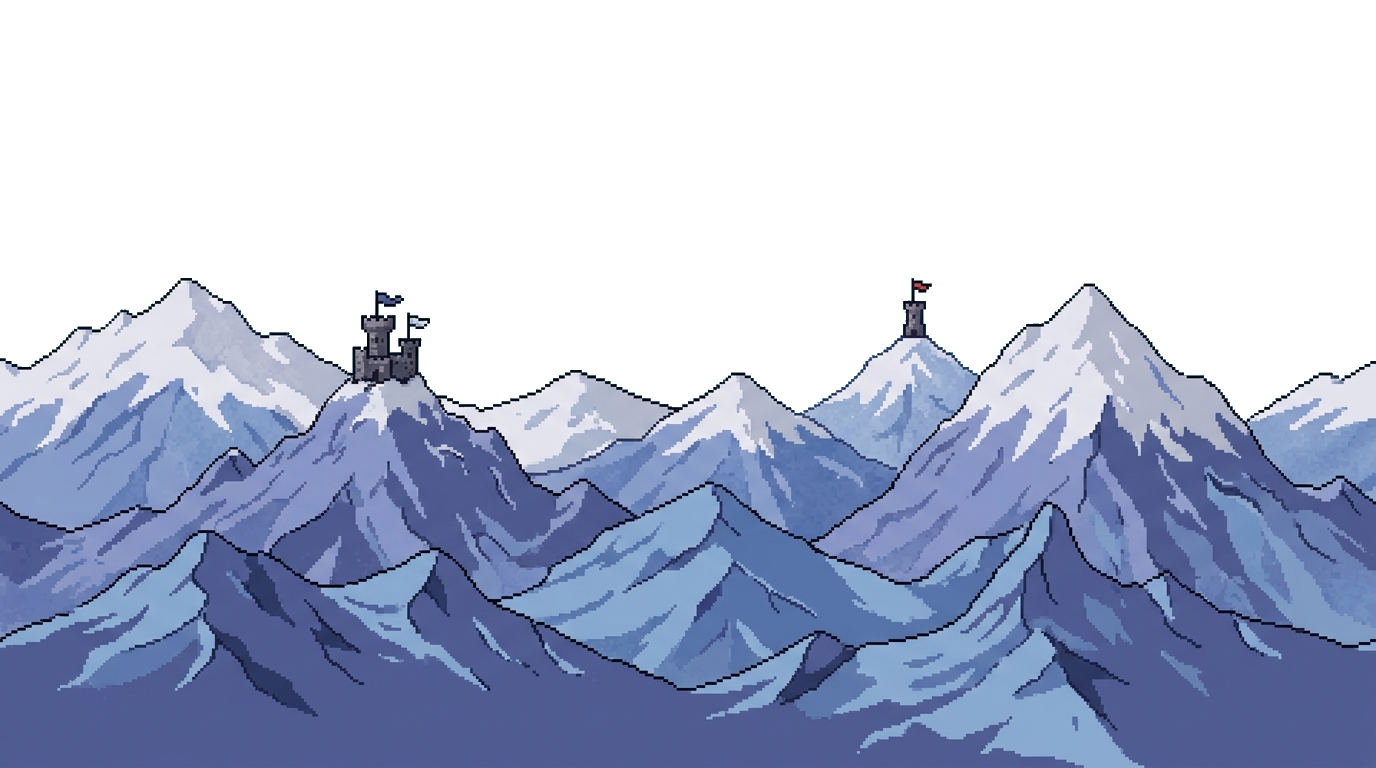
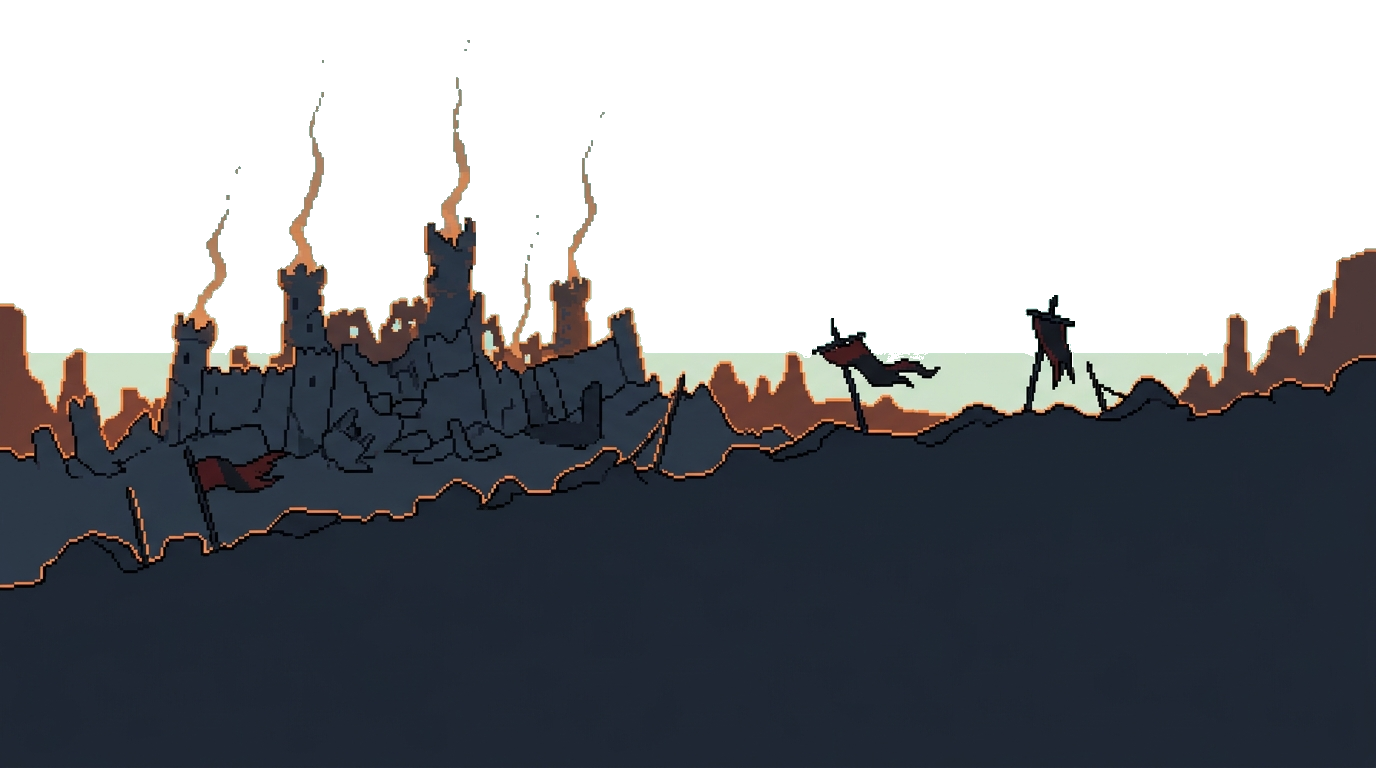
art(ch3): rediseño "La muerte de Flash" iter2 — battlefield aftermath + arco muerte→renacer
Rafael: ch3 debe tener el estilo del fondo de batalla épico de ch2 y centrarse en
la muerte de Flash. Parallax regenerado (estilo comic pixel dramático tipo Warcraft):
  - ch3-sky: cielo crepuscular humo/brasas que abre a un amanecer HTML5 dorado/cyan
  - ch3-mountains: cresta con fortaleza en ruinas humeante (transparente arriba)
  - ch3-path: campo quemado con armas/estandartes caídos y escombros
Mood "secuela con amanecer HTML5" (dramático pero esperanzador). Fondo oscuro →
texto en cream + glow ámbar.

Título "De vuelta al movimiento" → "La muerte de Flash" (i18n ui.deathOfFlash, es/en).

Emblemas re-tematizados al arco muerte→renacer (1 por párrafo):
  I Flash caído · II reconstrucción (yunque, NUEVO) · III estandarte de batalla
  (NUEVO) · IV orbe creativo · V HTML5 naciente (en el horizonte). HTML5 pasa de
  beacon decorativo a emblema clicable; shield/scroll/tome quedan legacy sin uso.

iter1 (fantasía pastel) preservado en old/ (§6.5). Tests + asset-naming actualizados.

diff --git a/src/components/Chapter3Content.vue b/src/components/Chapter3Content.vue
@@ -35,13 +35,18 @@ const bioParagraphs = computed(() => t(bio.eras[chapter.id].textKey).split('\n\n
 // Emblemas clicables — 1 por párrafo de la historia. Plantados en el escenario.
 // pos en % relativo a .ch3-content. Cada uno despliega bioParagraphs[idx].
 const ROMAN = ['I', 'II', 'III', 'IV', 'V']
+// Arco muerte→renacer (Rafael 2026-05-28): 1 emblema por párrafo.
+//   I  Flash caído ......... la muerte de Flash → salto a JS
+//   II reconstrucción ...... Pink Parrot, reconstruir desde cero con reglas nuevas
+//   III estandarte ......... el ágil como forma de pensar / ordenar el caos
+//   IV orbe creativo ....... publicidad digital, experimentar, cosas nuevas
+//   V  HTML5 naciente ...... época de crecer, salto de vuelta a la web (en el horizonte)
 const markers = [
-  // Emblema I = la muerte de Flash → salto a JS (refuerza el párrafo 1).
-  { key: 'flash', src: '/assets/ch3-flash-fallen.png', top: '42%', left: '14%', size: 100 },
-  { key: 'shield', src: '/assets/ch3-prop-shield.png', top: '62%', left: '27%', size: 96 },
-  { key: 'scroll', src: '/assets/ch3-mark-scroll.png', top: '70%', left: '50%', size: 92 },
-  { key: 'tome',   src: '/assets/ch3-mark-tome.png',   top: '60%', left: '72%', size: 88 },
-  { key: 'orb',    src: '/assets/ch3-mark-orb.png',    top: '40%', left: '86%', size: 92 },
+  { key: 'flash',    src: '/assets/ch3-flash-fallen.png', top: '54%', left: '16%', size: 112 },
+  { key: 'rebuild',  src: '/assets/ch3-mark-rebuild.png',  top: '67%', left: '34%', size: 94 },
+  { key: 'standard', src: '/assets/ch3-mark-standard.png', top: '49%', left: '51%', size: 98 },
+  { key: 'orb',      src: '/assets/ch3-mark-orb.png',      top: '66%', left: '69%', size: 88 },
+  { key: 'html5',    src: '/assets/ch3-html5-future.png',  top: '35%', left: '85%', size: 100 },
 ]
 
 // ── Estado del cuento ─────────────────────────────────────────────────────────
@@ -138,9 +143,6 @@ onBeforeUnmount(() => {
         class="ch3-spark"
         :style="{ left: sp.left, '--sp-delay': sp.delay, '--sp-dur': sp.dur, '--sp-size': sp.size }"
       ></span>
-
-      <!-- Faro HTML5 en el horizonte = el futuro (contraparte del Flash caído) -->
-      <div class="ch3-beacon" aria-hidden="true"></div>
     </div>
 
     <!-- ── Contenido: hint sutil + emblemas clicables ────────────────────── -->
@@ -148,7 +150,7 @@ onBeforeUnmount(() => {
       <!-- Hint mínimo (el entorno es el protagonista) -->
       <header class="ch3-hint">
         <p class="ch3-hint-era">Rafael · 2013</p>
-        <h1 class="ch3-hint-title">De vuelta al movimiento</h1>
+        <h1 class="ch3-hint-title">{{ t('ui.deathOfFlash') }}</h1>
         <p class="ch3-hint-cta">{{ t('ui.storyHint') }}</p>
       </header>
 
@@ -236,7 +238,7 @@ onBeforeUnmount(() => {
   overflow-y: auto;
   overflow-x: hidden;
   box-sizing: border-box;
-  background-color: #e9f1fb;
+  background-color: #1a1320;
   image-rendering: pixelated;
 }
 
@@ -323,34 +325,6 @@ onBeforeUnmount(() => {
   32% { opacity: 0; transform: translateX(-50px) rotate(-14deg); }
 }
 
-/* Faro HTML5 en el horizonte — el futuro. Glow celestial cálido + pulso suave. */
-.ch3-beacon {
-  position: absolute;
-  top: 34%;
-  left: 50%;
-  width: clamp(64px, 8.5vw, 120px);
-  aspect-ratio: 1;
-  transform: translate(-50%, -50%);
-  background: url('/assets/ch3-html5-future.png') center / contain no-repeat;
-  image-rendering: pixelated;
-  filter: drop-shadow(0 0 14px rgba(255, 200, 120, 0.85)) drop-shadow(0 0 32px rgba(255, 170, 80, 0.5));
-  animation: ch3-beacon-pulse 5.5s ease-in-out infinite;
-}
-.ch3-beacon::before {
-  content: '';
-  position: absolute;
-  inset: -65%;
-  border-radius: 50%;
-  background: radial-gradient(circle, rgba(255, 244, 210, 0.6) 0%, rgba(255, 210, 140, 0.26) 40%, transparent 70%);
-  z-index: -1;
-  animation: ch3-beacon-halo 5.5s ease-in-out infinite;
-}
-@keyframes ch3-beacon-pulse {
-  0%, 100% { transform: translate(-50%, -50%) scale(1); }
-  50% { transform: translate(-50%, -53%) scale(1.05); }
-}
-@keyframes ch3-beacon-halo { 0%, 100% { opacity: 0.5; } 50% { opacity: 0.9; } }
-
 .ch3-spark {
   position: absolute;
   bottom: 8%;
@@ -395,26 +369,29 @@ onBeforeUnmount(() => {
   font-size: 0.85rem;
   letter-spacing: 0.28em;
   text-transform: uppercase;
-  color: #4a3f63;
+  color: #e8b27a;
   margin: 0 0 4px;
-  text-shadow: 0 1px 0 rgba(255, 255, 255, 0.8);
+  text-shadow: 0 2px 6px rgba(0, 0, 0, 0.8);
 }
 .ch3-hint-title {
   font-family: 'Cinzel', 'Trajan Pro', serif;
   font-weight: 900;
-  font-size: clamp(1.6rem, 4vw, 2.6rem);
+  font-size: clamp(1.8rem, 4.4vw, 3rem);
   margin: 0 0 8px;
   line-height: 1.05;
-  color: #2a2140;
-  text-shadow: 0 1px 0 rgba(255,255,255,0.9), 0 0 18px rgba(150,220,255,0.45);
+  color: #fbeede;
+  text-shadow:
+    0 2px 8px rgba(0, 0, 0, 0.85),
+    0 0 22px rgba(255, 140, 60, 0.6),
+    0 0 44px rgba(255, 90, 40, 0.35);
 }
 .ch3-hint-cta {
   font-family: 'Roboto', sans-serif;
   font-size: 0.95rem;
   font-style: italic;
-  color: #3c3450;
+  color: #f0e2cf;
   margin: 0;
-  text-shadow: 0 1px 0 rgba(255,255,255,0.8);
+  text-shadow: 0 2px 6px rgba(0, 0, 0, 0.85);
   animation: ch3-hint-pulse 3s ease-in-out infinite;
 }
 @keyframes ch3-hint-pulse { 0%, 100% { opacity: 0.7; } 50% { opacity: 1; } }
@@ -654,8 +631,6 @@ onBeforeUnmount(() => {
   .ch3-fx--lasers::before,
   .ch3-fx--lasers::after,
   .ch3-spark,
-  .ch3-beacon,
-  .ch3-beacon::before,
   .ch3-hint-cta,
   .ch3-mark,
   .ch3-mark::before,

diff --git a/tests/assets/asset-naming.test.js b/tests/assets/asset-naming.test.js
@@ -62,7 +62,7 @@ const GITIGNORE_PATH = resolve(process.cwd(), '.gitignore')
 //     · ch3-flash-fallen.png (logo Flash "caído" — narrativa muerte de Flash, emblema I)
 //     · ch3-html5-future.png (logo HTML5 radiante en el horizonte — el futuro)
 const ASSET_NAMING_REGEX =
-  /^ch[0-6]-(bust|bg|bg-stars-far|bg-planet-mid|bg-nebulae-mid|fg-panels|fg-ships|hero|paper-bg|halftone-bg|logo-rm|robot|sky|mountains|path|parchment|flash-fallen|flash-war|html5-future|prop-(shield|banner)|mark-(scroll|tome|orb)|starburst-(green|orange)|planet-(ar-vr|remoose|software-mind)|ship-[12]|game-(california|warcraft|starcraft|magic)|os-(win95|win95-loading))\.(png|jpg)$/
+  /^ch[0-6]-(bust|bg|bg-stars-far|bg-planet-mid|bg-nebulae-mid|fg-panels|fg-ships|hero|paper-bg|halftone-bg|logo-rm|robot|sky|mountains|path|parchment|flash-fallen|flash-war|html5-future|prop-(shield|banner)|mark-(scroll|tome|orb|rebuild|standard)|starburst-(green|orange)|planet-(ar-vr|remoose|software-mind)|ship-[12]|game-(california|warcraft|starcraft|magic)|os-(win95|win95-loading))\.(png|jpg)$/
 
 // Defensive: si public/assets/ no existe o no tiene assets, devolver lista vacía
 // (test setup-friendly antes del primer asset commited).

diff --git a/tests/components/Chapter3Content.test.js b/tests/components/Chapter3Content.test.js
@@ -46,9 +46,9 @@ describe('Chapter3Content.vue (parallax + cuento — iter10 2026-05-28)', () => 
   })
 
   // ── T2: hint mínimo ─────────────────────────────────────────────────────────
-  it('T2 hint: título + CTA storyHint presentes (texto mínimo)', () => {
+  it('T2 hint: título "La muerte de Flash" + CTA storyHint (texto mínimo)', () => {
     const { wrapper } = mountCh3()
-    expect(wrapper.find('.ch3-hint-title').exists()).toBe(true)
+    expect(wrapper.find('.ch3-hint-title').text()).toMatch(/muerte de Flash/i)
     expect(wrapper.find('.ch3-hint-cta').text().length).toBeGreaterThan(0)
   })
 

diff --git a/public/assets/old/CHANGELOG.md b/public/assets/old/CHANGELOG.md
@@ -488,3 +488,12 @@ Aplica colectivamente a los 4 assets parallax originales de ch4 (Plan 04-04 W2).
 - **Qué se intentará diferente:** estilo box-art Warcraft III — cielo ardiente naranja/carmesí con cometas/meteoros surcando + relámpagos, CHOQUE DE CAMPEONES en primer plano (héroe alzando el orbe Flash vs campeón de Apple con martillo/energía azul), ejércitos colisionando detrás, ciudadela Apple de Macs/iPhones, ángulo cinematográfico bajo, máxima épica. forge_background nano-banana-2 res nativa.
 - **Resultado:** 1 intento — éxito. 1376×768, héroe Flash con orbe ardiente en estandarte vs campeón Apple con escudo-manzana + crystal azul, meteoros + relámpagos + explosiones, ciudadela de CRT Macs coronada por Apple negro glowing. Foreshadow directo de ch3-flash-fallen.
 - **Commit hash post-regen:** `e010343`
+
+---
+
+## ch3 parallax (sky/mountains/path) — iter1 → iter2 (2026-05-28)
+
+- **Versiones guardadas:** `old/ch3-sky-2026-05-28-iter1.png`, `old/ch3-mountains-2026-05-28-iter1.png`, `old/ch3-path-2026-05-28-iter1.png` (commit `2650d31`)
+- **Razón del cambio:** Rafael 2026-05-28: ch3 ahora es "La muerte de Flash" y debe tener el estilo del fondo de batalla épico de ch2 (Warcraft). iter1 era fantasía pastel clara (cielo aurora + montañas + camino con estandartes) — bonito pero no matchea el tema muerte-de-Flash ni el drama de ch2.
+- **Qué se intentará diferente:** mood "secuela con amanecer HTML5" — campo de batalla DESPUÉS de la guerra: cielo crepuscular humo/brasas que abre a un amanecer HTML5 dorado/cyan en el horizonte; cresta con fortaleza en ruinas humeante; primer plano de tierra quemada con armas/estandartes caídos y escombros. Estilo comic pixel dramático (matchea ch2-flash-war). Emblemas re-tematizados al arco muerte→renacer (Flash caído → reconstrucción → estandarte → orbe → HTML5 naciente). Título "De vuelta al movimiento" → "La muerte de Flash".
+- **Commit hash post-regen:** `9c92672`
